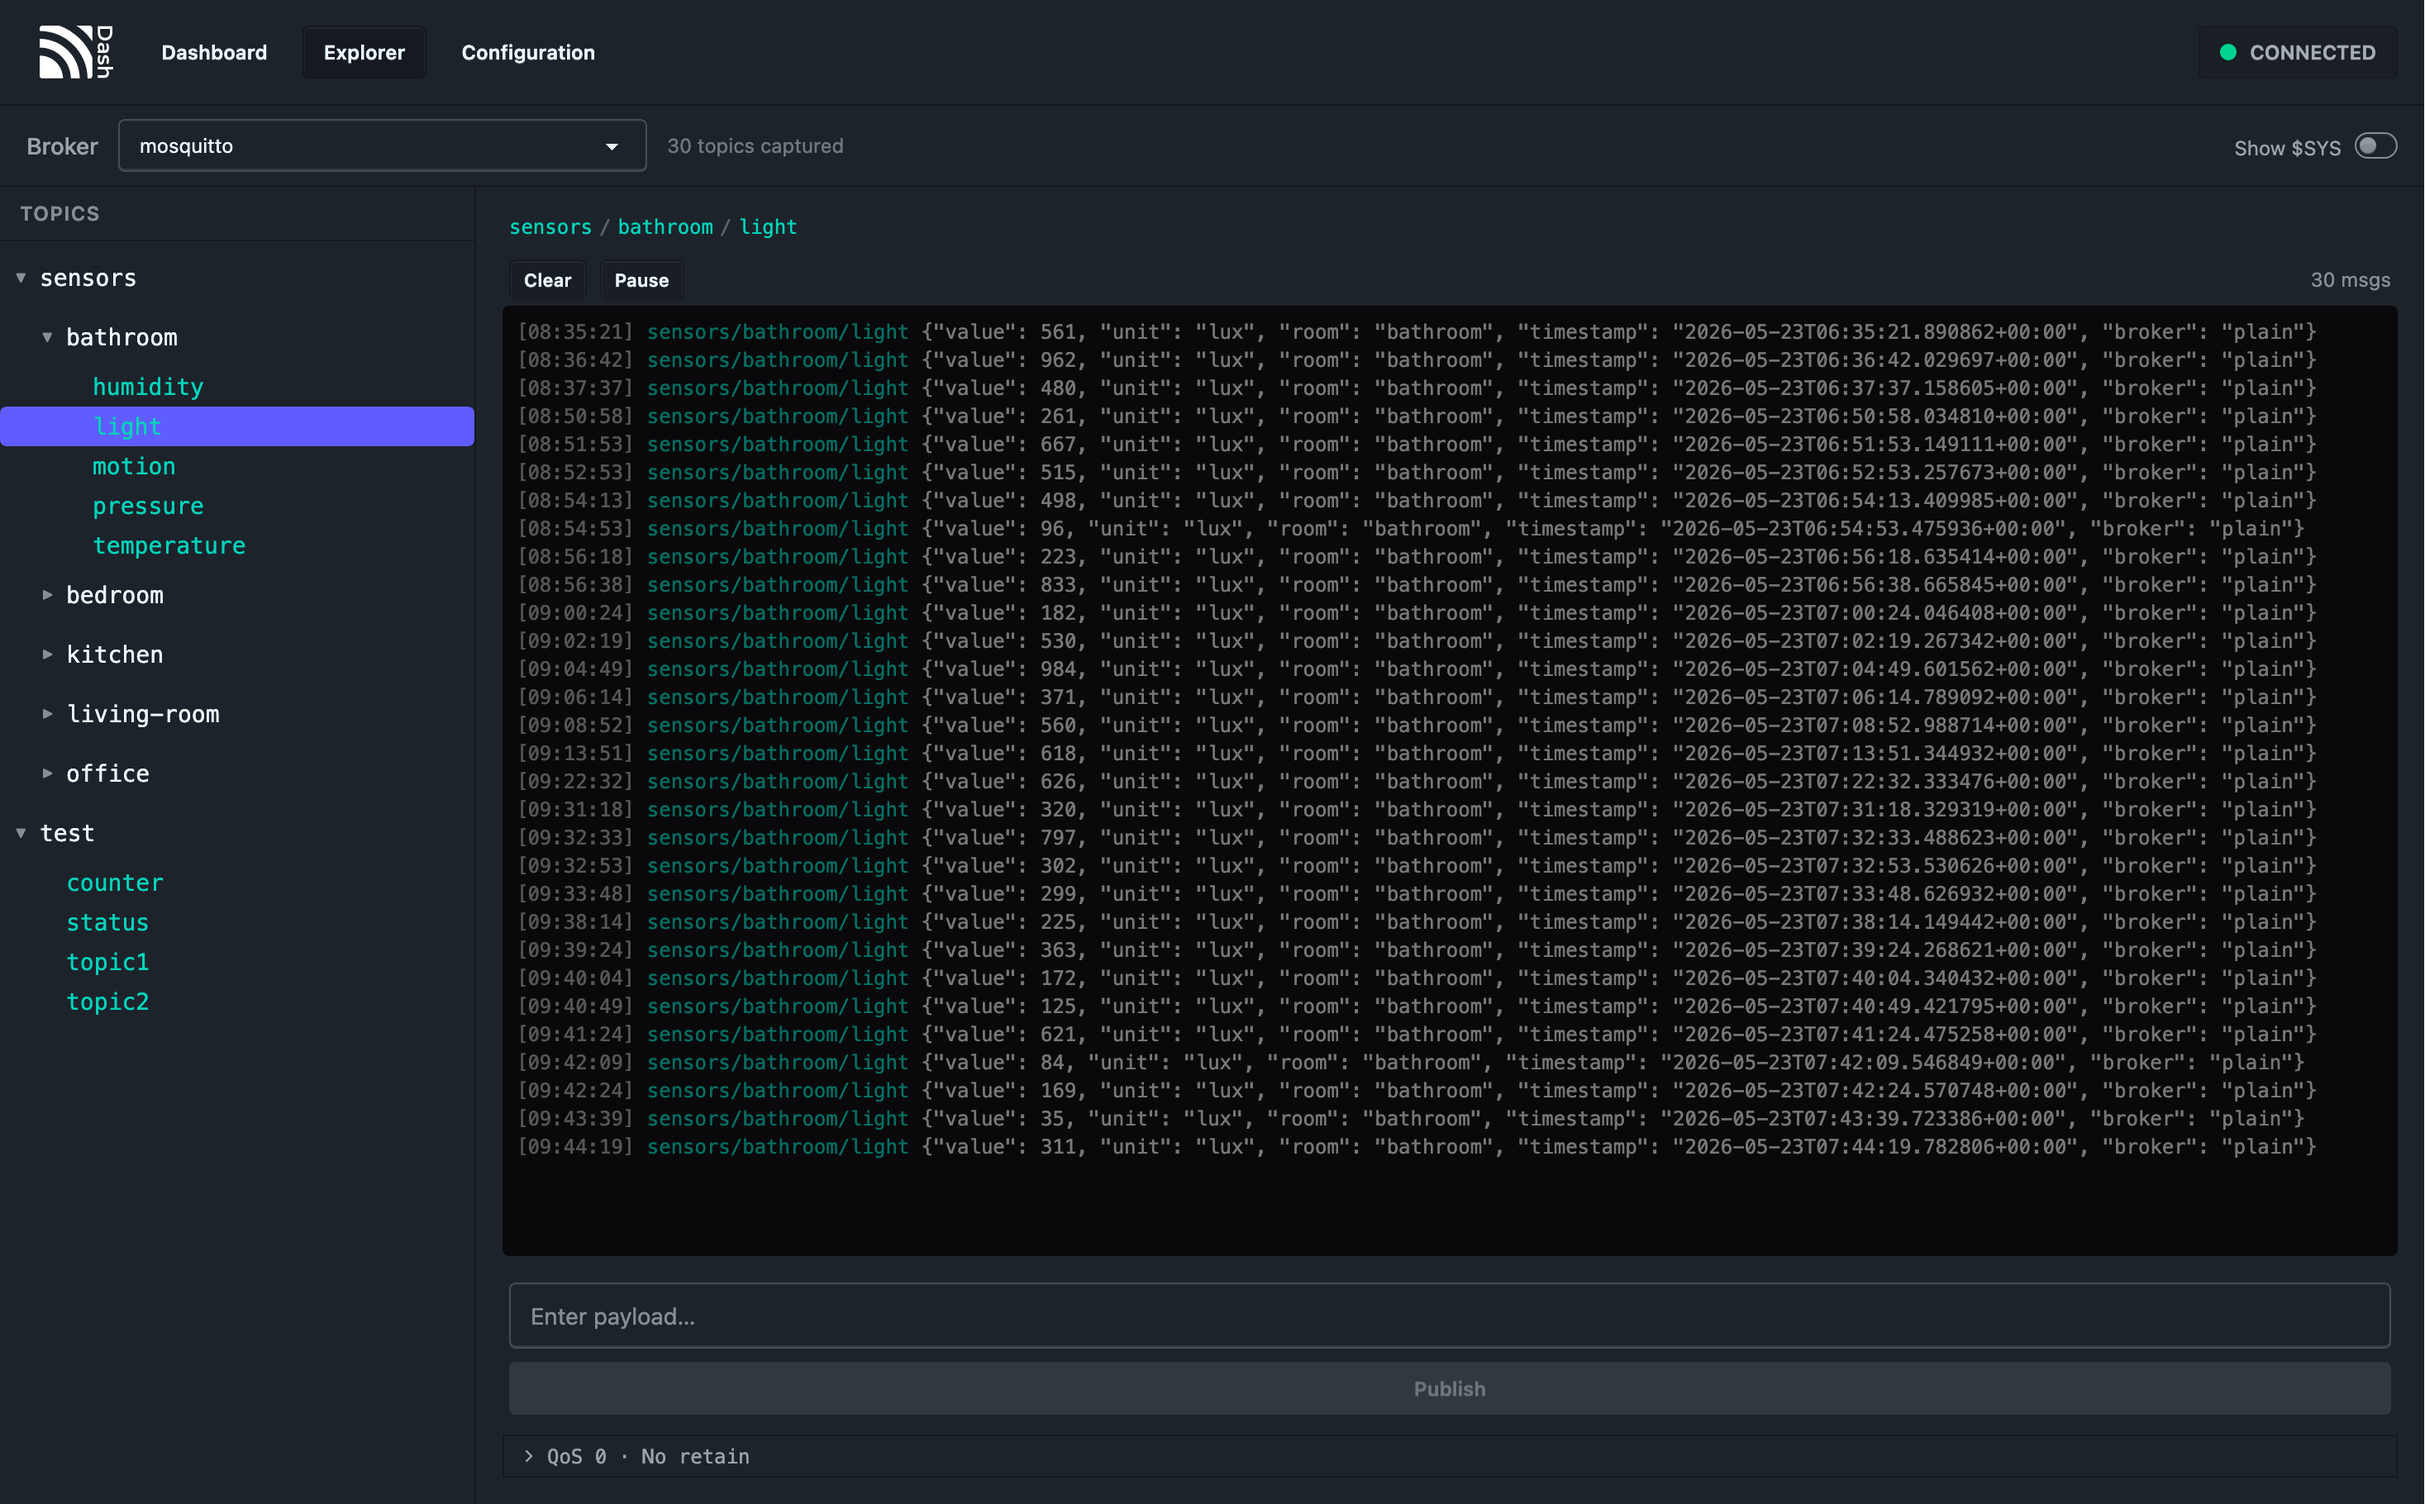
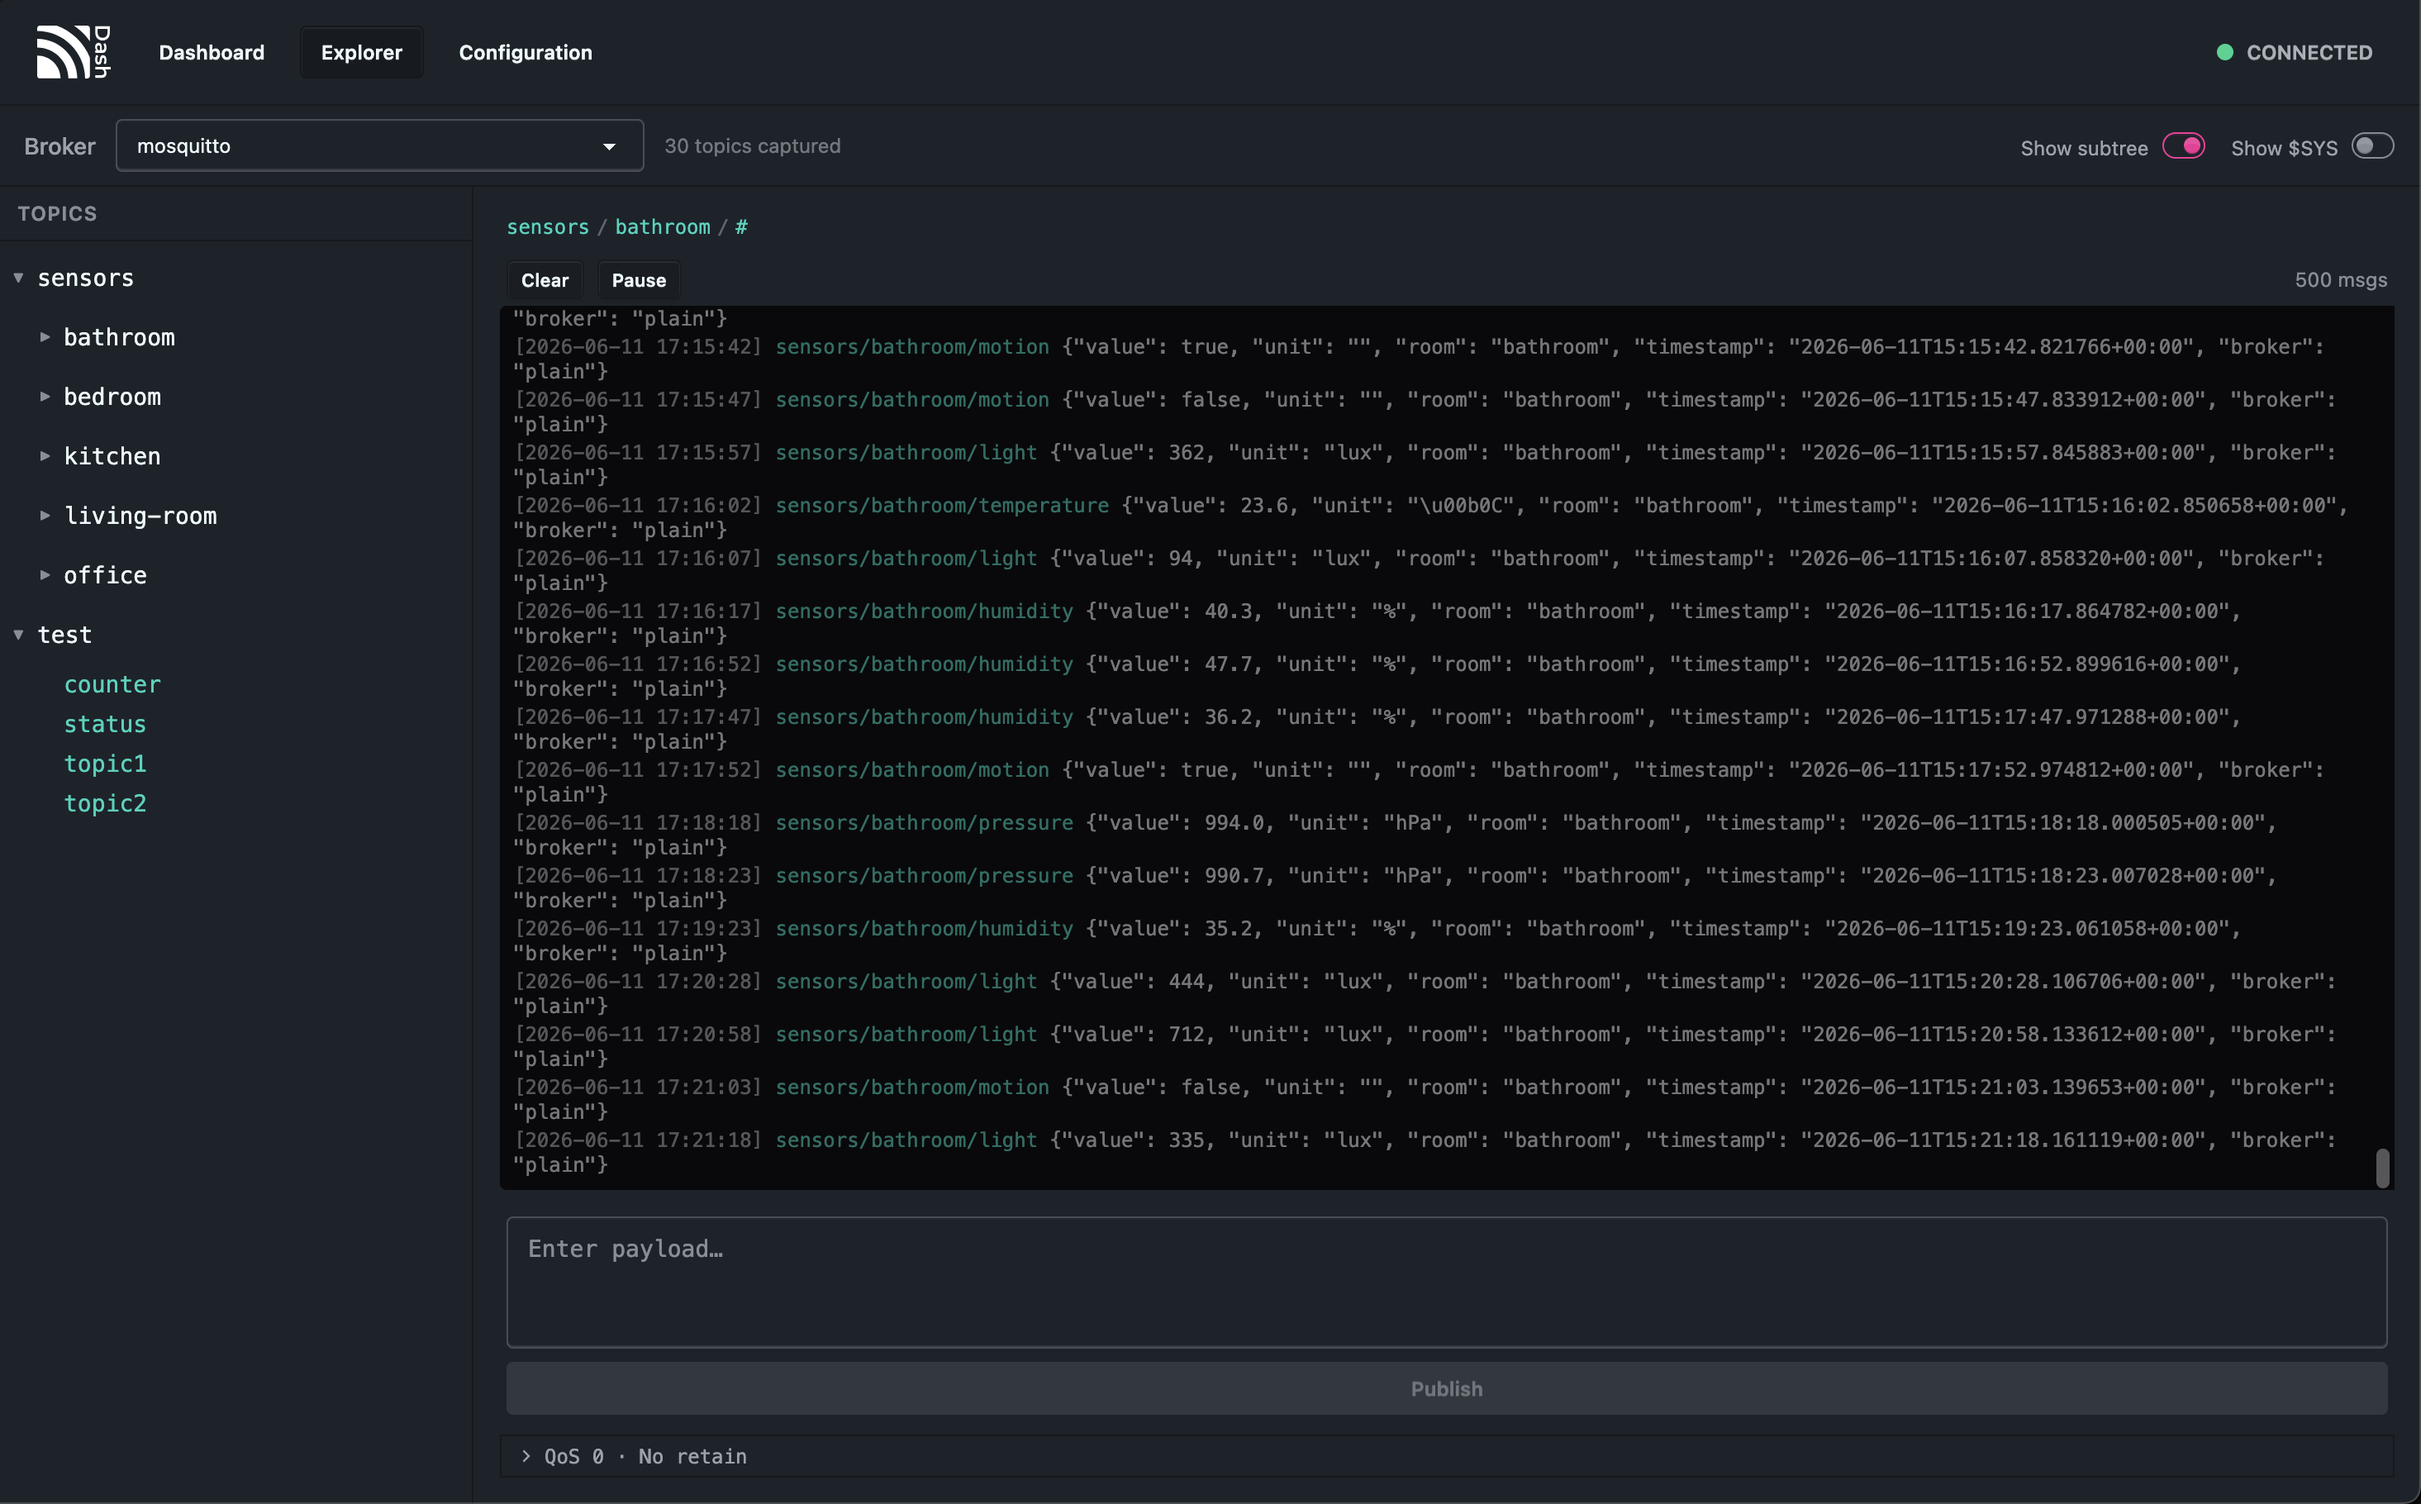
feat: update TODO list and adjust roadmap for panel customization

diff --git a/TODO.md b/TODO.md
@@ -4,10 +4,10 @@ This page describes small tasks that needs to be done, bigger features are descr
 
 Note to AI: When you finish a sub-task, mark it with a checkmark, and ignore future improvements it is to be defined further by human
 
-- [ ] (broker) init a broker from env_var and add a full docker-compose with mosquitto broker 
+- [ ] (dashboard) make the separator really half the size and divide by 2 the resolution of the grid so other panels can take more space
+- [ ] (broker) init a broker from env_var and add a full docker-compose with mosquitto broker
 - [x] (sub-header) when topic is truncated, we should be able to see it on hover
 - [x] (separator-panel) make it take half the space it does without grid changes
-- [ ] (config) be able to config the history feature to disable it
 - [x] (dashboard) show preview of panel on hover
 - [x] (stats-panel) we should add some customisation for each section of the stat panel (like toggle) in edit modal
 - [x] (stats-panel) the picker for last time doesnt work since the chart starts when loaded, im not sure the reset counter serves a purpose, and this panel should maybe get stat from history, i also need to check if i should use a lib for the chart

diff --git a/README.md b/README.md
@@ -146,7 +146,6 @@ MQTT Dashboard supports secure broker connections out of the box:
 
 ## 🗺 Roadmap
 
-- [ ] Configurable history toggle per broker
 - [ ] Allow users to create their custom panels and share them
 - [ ] More customisable options in base panels
 
